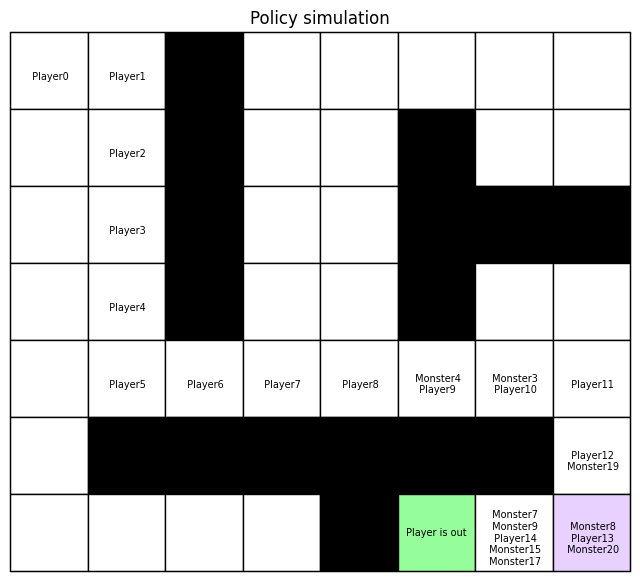
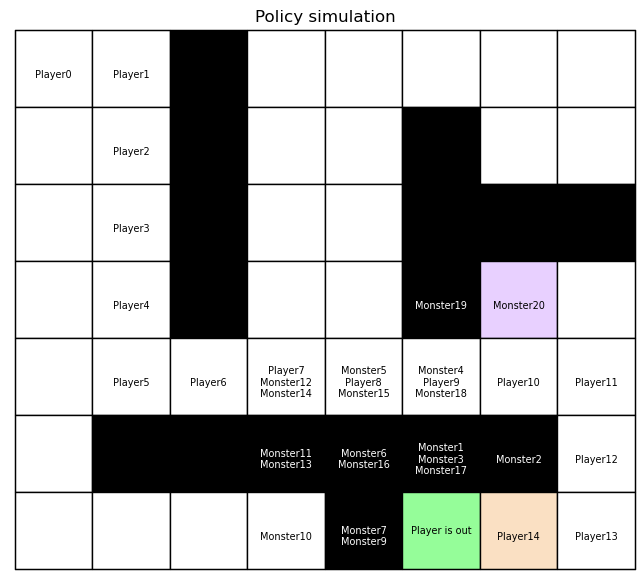
Added draw_policy and improved animation plot

Changed region(s): [[0.0, 0.0, 1.0, 0.9914], [0.75, 0.7745, 0.8438, 0.8055]]

diff --git a/lab1/problem1.py b/lab1/problem1.py
@@ -395,6 +395,49 @@ def draw_maze(maze, player_pos, minotaur_pos):
         cell.set_height(1.0/rows)
         cell.set_width(1.0/cols)
 
+def draw_policy(maze, env, minotaur_pos, policy, t):
+    action_dict = {0: "S",    #stay
+               1: "L",   #left (y_pos, x_pos) the inner list corresponds to one row in the maze
+               2: "U", #up (we go up in matrix thus smaller index)
+               3: "R",  #right
+               4: "D"} 
+    
+    # Map a color to each cell in the maze
+    col_map = {0: WHITE, 1: BLACK, 2: LIGHT_GREEN, -6: LIGHT_RED, -1: LIGHT_RED}
+
+    # Give a color to each cell
+    rows,cols    = maze.shape
+    colored_maze = [[col_map[maze[j,i]] for i in range(cols)] for j in range(rows)]
+
+    # Create figure of the size of the maze
+    fig = plt.figure(1, figsize=(cols,rows))
+    # Remove the axis ticks and add title title
+    ax = plt.gca()
+    ax.set_title('Policy map at t='+str(t))
+    ax.set_xticks([])
+    ax.set_yticks([])
+    # Create a table to color
+    grid = plt.table(cellText=None,
+                            cellColours=colored_maze,
+                            cellLoc='center',
+                            loc=(0,0),
+                            edges='closed')
+    # Modify the hight and width of the cells in the table
+    tc = grid.properties()['children']
+    for cell in tc:
+        cell.set_height(1.0/rows)
+        cell.set_width(1.0/cols)
+    
+    for state_id, state in env.states.items():
+        if state[1] == minotaur_pos:
+            action_text = action_dict.get(policy[state_id,t])
+            grid.get_celld()[state[0]].get_text().set_text(action_text)
+            
+            
+    grid.get_celld()[minotaur_pos].set_facecolor(LIGHT_PURPLE)
+    grid.get_celld()[minotaur_pos].get_text().set_text('Minotaur')
+    
+
 def animate_solution(maze, path):
 
     # Map a color to each cell in the maze
@@ -441,6 +484,7 @@ def animate_solution(maze, path):
         grid.get_celld()[(path[i][1])].set_facecolor(LIGHT_PURPLE)
         monster_text = grid.get_celld()[(path[i][1])].get_text().get_text()
         grid.get_celld()[(path[i][1])].get_text().set_text(monster_text + '\nMonster' + str(i))
+        grid.get_celld()[(path[i][1])].get_text().set_color('black')
 
         if i > 0:
             if path[i][0] == path[i][1]:
@@ -452,6 +496,8 @@ def animate_solution(maze, path):
             else:
                 grid.get_celld()[(path[i-1][0])].set_facecolor(col_map[maze[path[i-1][0]]])
             grid.get_celld()[(path[i-1][1])].set_facecolor(col_map[maze[path[i-1][1]]])
+            if (maze[path[i-1][1]] == 1):
+                grid.get_celld()[(path[i-1][1])].get_text().set_color('white')
 
         display.display(fig)
         display.clear_output(wait=True)
